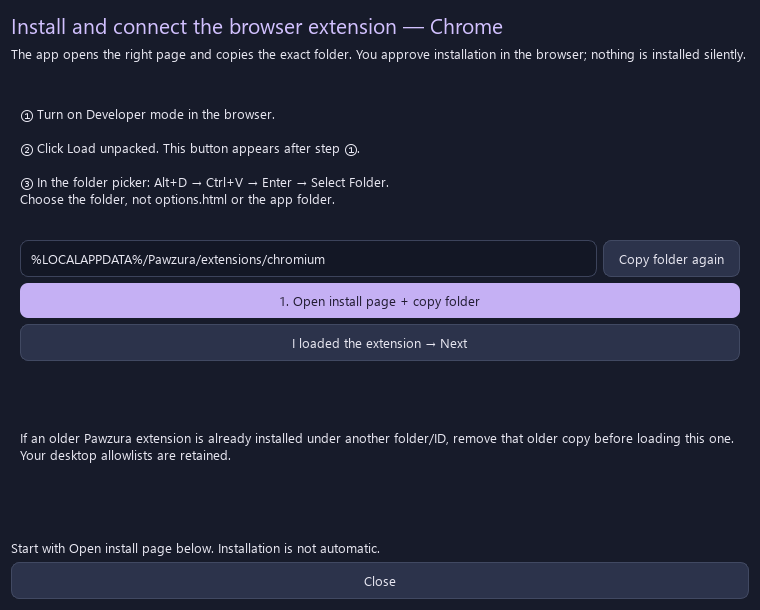
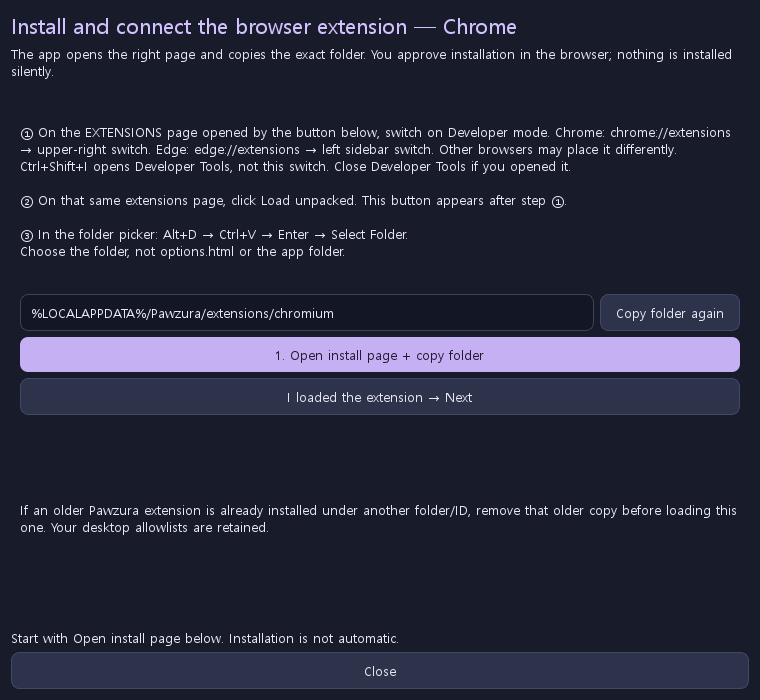
docs: clarify extension developer mode and installation sequence

diff --git a/pawzura/browser_setup.py b/pawzura/browser_setup.py
@@ -101,7 +101,7 @@ WORDS = {
         "copy": "Copy folder again", "next": "I loaded the extension → Next", "connect": "2. Open connection and request pairing",
         "back": "Back", "done": "Done", "close": "Close", "choose": "Choose browser executable…",
         "intro": "The app opens the right page and copies the exact folder. You approve installation in the browser; nothing is installed silently.",
-        "chromium": "① Turn on Developer mode in the browser.\n\n② Click Load unpacked. This button appears after step ①.\n\n③ In the folder picker: Alt+D → Ctrl+V → Enter → Select Folder.\nChoose the folder, not options.html or the app folder.",
+        "chromium": "① On the EXTENSIONS page opened by the button below, switch on Developer mode. Chrome: chrome://extensions → upper-right switch. Edge: edge://extensions → left sidebar switch. Other browsers may place it differently.\nCtrl+Shift+I opens Developer Tools, not this switch. Close Developer Tools if you opened it.\n\n② On that same extensions page, click Load unpacked. This button appears after step ①.\n\n③ In the folder picker: Alt+D → Ctrl+V → Enter → Select Folder.\nChoose the folder, not options.html or the app folder.",
         "firefox": "In Firefox/Zen: click Load Temporary Add-on, open the folder below and select manifest.json. This temporary installation disappears when the browser restarts; permanent installation requires Mozilla signing.",
         "loaded": "The folder is copied. Finish the browser steps above, then click Next here. Keep this installed folder; it remains stable across app upgrades.",
         "pair": "Click the connection button below, then approve Yes in the Pawzura desktop prompt. Browser and port are filled automatically. If the page says it cannot be opened, go Back and finish loading the extension first.",
@@ -117,7 +117,7 @@ WORDS = {
         "copy": "폴더 경로 다시 복사", "next": "확장을 불러왔어요 → 다음", "connect": "2. 연결 화면 열고 연결 요청",
         "back": "이전", "done": "완료", "close": "닫기", "choose": "브라우저 실행 파일 선택…",
         "intro": "앱이 설치 화면을 열고 정확한 폴더를 복사합니다. 설치 승인은 브라우저에서 직접 하며 몰래 설치하지 않습니다.",
-        "chromium": "① 브라우저에서 ‘개발자 모드’를 켜세요.\n\n② 그때 나타나는 ‘압축해제된 확장 프로그램을 로드합니다’(Load unpacked)를 누르세요.\n\n③ 폴더 선택창에서 Alt+D → Ctrl+V → Enter → ‘폴더 선택’을 누르세요.\noptions.html 파일이나 앱 전체 폴더를 고르는 것이 아닙니다.",
+        "chromium": "① 아래 버튼으로 열린 ‘확장 프로그램’ 관리 화면에서 ‘개발자 모드’ 스위치를 켜세요. Chrome: chrome://extensions 화면 오른쪽 위. Edge: edge://extensions 화면 왼쪽 사이드바. 다른 브라우저는 위치가 다를 수 있습니다.\nCtrl+Shift+I는 ‘개발자 도구’를 여는 단축키입니다. 이 스위치와 다르므로 도구를 열었다면 닫으세요.\n\n② 같은 확장 관리 화면에서 새로 나타난 ‘압축해제된 확장 프로그램을 로드합니다’(Load unpacked)를 누르세요.\n\n③ 폴더 선택창에서 Alt+D → Ctrl+V → Enter → ‘폴더 선택’을 누르세요.\noptions.html 파일이나 앱 전체 폴더를 고르는 것이 아닙니다.",
         "firefox": "Firefox/Zen에서 ‘임시 부가 기능 로드’를 누르고 아래 폴더의 manifest.json을 고릅니다. 브라우저를 다시 시작하면 해제되는 임시 설치입니다. 영구 설치에는 Mozilla 서명이 필요합니다.",
         "loaded": "폴더를 복사했습니다. 브라우저에서 위 설치 단계를 마친 뒤 여기서 ‘다음’을 누르세요. 설치된 폴더는 유지하며 앱 업그레이드 후에도 같은 경로를 사용합니다.",
         "pair": "아래 연결 버튼을 누른 뒤 Pawzura 앱의 확인창에서 ‘예’를 누르세요. 브라우저·포트는 자동 입력됩니다. 페이지를 열 수 없다고 나오면 ‘이전’으로 돌아가 확장 불러오기를 먼저 마치세요.",

diff --git a/doc/ko/BROWSERS.md b/doc/ko/BROWSERS.md
@@ -8,8 +8,9 @@
 
 1. Pawzura 0.1.5 이상의 **브라우저**에서 **chrome** 또는 **edge** 선택 → **확장 설치·연결…**을 누릅니다.
 2. **설치 화면 열기 + 폴더 자동 복사**를 누릅니다. 앱이 브라우저의 확장 관리 화면을 열고 정확한 폴더 경로를 복사합니다.
-3. **브라우저에서** **개발자 모드**를 켠 뒤, 새로 나타나는 **압축해제된 확장 프로그램을 로드합니다(Load unpacked)**를 누릅니다. 폴더 선택창에서 **Alt+D → Ctrl+V → Enter → 폴더 선택**을 누릅니다. 폴더를 직접 찾을 필요가 없습니다.
-4. 도우미로 돌아와 **확장을 불러왔어요 → 다음 → 연결 화면 열고 연결 요청**을 누릅니다. Pawzura 확인창에서 **예**를 누르면 도우미가 최근 인증 연결을 확인하고 완료를 표시합니다.
+3. **방금 열린 확장 프로그램 관리 화면**의 **개발자 모드 스위치**를 켭니다. Chrome은 **`chrome://extensions` 화면 오른쪽 위**, Edge는 **`edge://extensions` 화면 왼쪽 사이드바**에 있습니다. **Ctrl+Shift+I는 개발자 도구를 여는 단축키이며, 이 스위치를 켜는 기능이 아닙니다.** 개발자 도구를 열었다면 닫으세요.
+4. 같은 확장 관리 화면에서 새로 나타나는 **압축해제된 확장 프로그램을 로드합니다(Load unpacked)**를 누릅니다. 폴더 선택창에서 **Alt+D → Ctrl+V → Enter → 폴더 선택**을 누릅니다. 폴더를 직접 찾을 필요가 없습니다.
+5. 확장 관리 화면에 **Pawzura Focus Bridge**가 나타나고 켜져 있는지 확인합니다. 도우미로 돌아와 **확장을 불러왔어요 → 다음 → 연결 화면 열고 연결 요청**을 누릅니다. Pawzura 확인창에서 **예**를 누르면 도우미가 최근 인증 연결을 확인하고 완료를 표시합니다.
 
 브라우저·포트는 자동 입력합니다. 탐색기에서 `options.html`을 열면 연결 기능이 없는 파일 미리보기입니다. 브라우저 설치 승인은 직접 해야 하며 도우미가 몰래 승인하지 않습니다. 관리 정책이나 브라우저 프로필을 수정하지 않습니다. [Chrome 공식 설치 단계](https://developer.chrome.com/docs/extensions/get-started/tutorial/hello-world#load-unpacked), [Edge 공식 설치 단계](https://learn.microsoft.com/en-us/microsoft-edge/extensions/getting-started/extension-sideloading).
 
@@ -21,7 +22,7 @@
 
 | 보이는 상황 | 해결 방법 |
 | --- | --- |
-| 확장 불러오기 버튼이 없음 | 확장 관리 화면에서 개발자 모드를 먼저 켜세요. Chrome은 오른쪽 위이며 Edge 배치는 다를 수 있습니다. |
+| 확장 불러오기 버튼이 없음 / Ctrl+Shift+I를 누름 | 개발자 도구를 닫으세요. Chrome은 `chrome://extensions` 화면 오른쪽 위의 개발자 모드 스위치를 켭니다. Edge는 `edge://extensions` 화면 왼쪽 사이드바의 스위치를 켭니다. |
 | 브라우저를 찾지 못함 | 도우미의 브라우저 실행 파일 선택에서 해당 브라우저 EXE를 고른 뒤 설치 화면 열기를 다시 누르세요. |
 | 폴더 선택창에 엉뚱한 폴더가 보임 | Alt+D로 주소줄 선택 → Ctrl+V로 복사된 경로 붙여넣기 → Enter로 해당 폴더 열기 → 폴더 선택 순서입니다. |
 | manifest가 없거나 로드 실패 | 앱 전체 폴더·ZIP·options.html이 아니라 도우미가 준비한 폴더를 고르세요. 먼저 앱 ZIP 전체를 압축 해제하세요. |

diff --git a/doc/en/BROWSERS.md b/doc/en/BROWSERS.md
@@ -8,8 +8,9 @@
 
 1. In Pawzura 0.1.5+, open **Browsers**, choose **chrome** or **edge**, and click **Install/connect extension…**.
 2. Click **Open install page + copy folder**. The app opens the browser's extension manager and puts the correct folder on the clipboard.
-3. **In the browser:** turn on **Developer mode**, then click **Load unpacked**. In the folder picker, press **Alt+D → Ctrl+V → Enter → Select Folder**. No manual folder search is needed.
-4. Return to the helper → **I loaded the extension → Next → Open connection and request pairing**. Choose **Yes** in Pawzura's confirmation. The helper detects a recent authenticated connection and shows completion.
+3. **On the extensions manager page just opened**, turn on the **Developer mode switch**: in Chrome, **`chrome://extensions` → upper right**; in Edge, **`edge://extensions` → left sidebar**. **Ctrl+Shift+I opens Developer Tools; it does not turn on this switch.** Close Developer Tools if you opened it.
+4. On that same extensions page, click **Load unpacked**, which appears after enabling the switch. In the folder picker, press **Alt+D → Ctrl+V → Enter → Select Folder**. No manual folder search is needed.
+5. Confirm that **Pawzura Focus Bridge** appears on the extensions page and is enabled. Then return to the helper → **I loaded the extension → Next → Open connection and request pairing**. Choose **Yes** in Pawzura's confirmation. The helper detects a recent authenticated connection and shows completion.
 
 The browser and port are filled automatically. Do not open `options.html` from Explorer; that is only a file preview. Installation requires the browser's own controls and cannot be silently approved by this helper. It does not change enterprise policies or browser profiles. [Chrome's local-load steps](https://developer.chrome.com/docs/extensions/get-started/tutorial/hello-world#load-unpacked), [Edge's local-load steps](https://learn.microsoft.com/en-us/microsoft-edge/extensions/getting-started/extension-sideloading).
 
@@ -21,7 +22,7 @@ The actual folder is filled and copied on your PC when you click Open install pa
 
 | What you see | Do this |
 | --- | --- |
-| No Load unpacked button | Turn on Developer mode on the extension-manager page first. Chrome puts it at the upper right; Edge's layout can differ. |
+| No Load unpacked button / I pressed Ctrl+Shift+I | Close Developer Tools. Open `chrome://extensions` in Chrome and enable the upper-right Developer mode switch. In Edge, open `edge://extensions` and use the left sidebar switch. |
 | Browser not found | In the helper, use Choose browser executable, select the chosen browser's EXE, then retry Open install page. |
 | A folder picker with unrelated folders | Alt+D focuses its address bar. Ctrl+V pastes the path copied by the helper. Enter opens that folder; then Select Folder. |
 | Cannot find manifest / failed to load | Select the folder prepared by the helper, not the entire Pawzura folder, a ZIP, or options.html. Extract the complete app ZIP first. |

diff --git a/README.ko.md b/README.ko.md
@@ -18,7 +18,7 @@ Windows 10 (1809+) / Windows 11 · x64 · 소스 실행 Python 3.12–3.15 · MI
 
 **사이트 제어에는 Pawzura 브라우저 확장 설치가 필수입니다.** 프로그램만 제어하려면 **브라우저 → 사이트 제어 OFF**로 두세요. 확장을 설치하지 않아도 됩니다.
 
-사이트를 제어하려면 브라우저 선택 후 **확장 설치·연결…**을 누르세요. 앱이 설치 화면을 열고 올바른 폴더를 복사하며 설치·연결을 안내합니다. 설치와 연결 승인은 직접 합니다. [짧은 사용법과 버튼이 안 보일 때](doc/ko/BROWSERS.md).
+사이트를 제어하려면 브라우저 선택 후 **확장 설치·연결…**을 누르세요. 열린 확장 관리 화면의 **개발자 모드**(Chrome: `chrome://extensions` 오른쪽 위 스위치)를 켜고, **압축해제된 확장 프로그램을 로드합니다**에서 복사된 폴더를 선택하세요. **Ctrl+Shift+I로 여는 개발자 도구와 다릅니다.** 설치를 마친 뒤 연결 화면을 여세요. [단계별 사용법과 버튼 위치](doc/ko/BROWSERS.md).
 
 ## 주요 기능
 

diff --git a/README.md b/README.md
@@ -18,7 +18,7 @@ The app starts in English. Switch with **General → Language → 한국어 → 
 
 **Website control requires the Pawzura browser extension.** For applications only, leave **Browsers → Website control OFF**; no extension is needed.
 
-For websites, choose your browser and click **Install/connect extension…**. The app opens the install page, copies the correct folder and guides you through loading it, then opens the connection page. You approve installation and pairing. [Short walkthrough and missing-button help](doc/en/BROWSERS.md).
+For websites, choose your browser and click **Install/connect extension…**. On the extensions page it opens, enable **Developer mode** (Chrome: upper-right switch on `chrome://extensions`), then **Load unpacked** using the copied folder. **Ctrl+Shift+I opens Developer Tools, not this switch.** Finish loading before opening the connection page. [Steps and button locations](doc/en/BROWSERS.md).
 
 ## What it does
 
